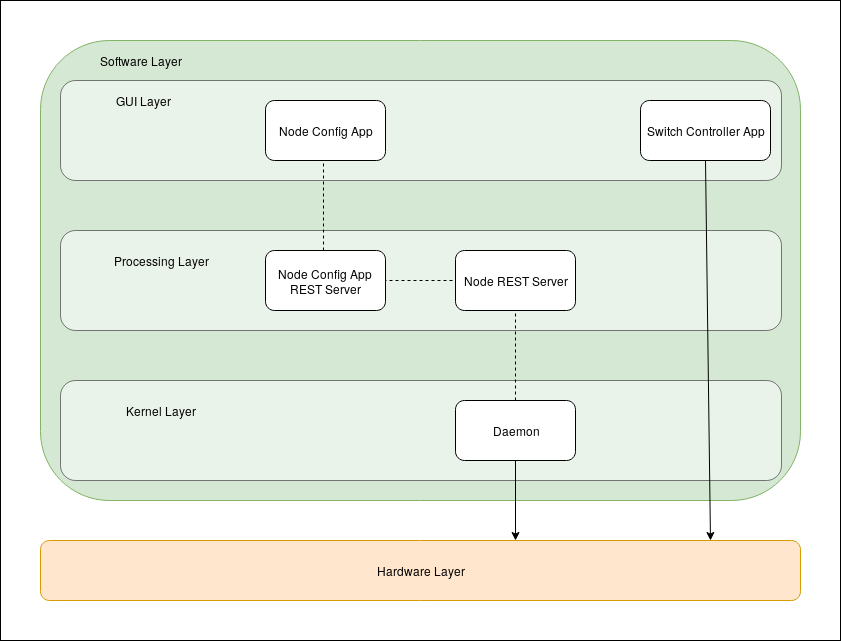
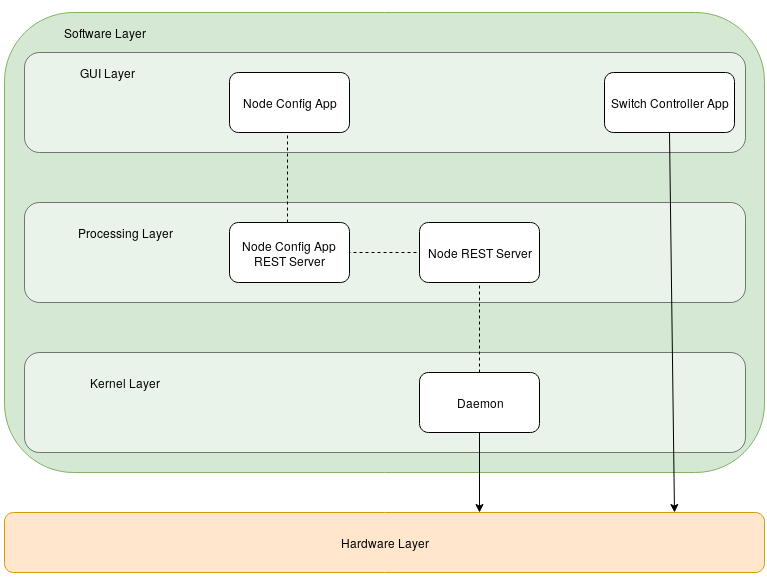
alter images, final

Changed region(s): [[0.0, 0.0, 1.0, 1.0], [0.2999, 0.2165, 0.3299, 0.2474]]

diff --git a/AMazING/architecture.html b/AMazING/architecture.html
@@ -259,7 +259,7 @@
 						<h2><a id="Technical" style="position:absolute;top:-100px"></a>Technical Requirements</h2>
 						<br>
 						<br>
-						<img style="width:65%" src="images/overallreq.png"  alt="">
+						<img style="width:55%" src="images/overallreq.png"  alt="">
 						<br>
 						<br>
 						<br>
